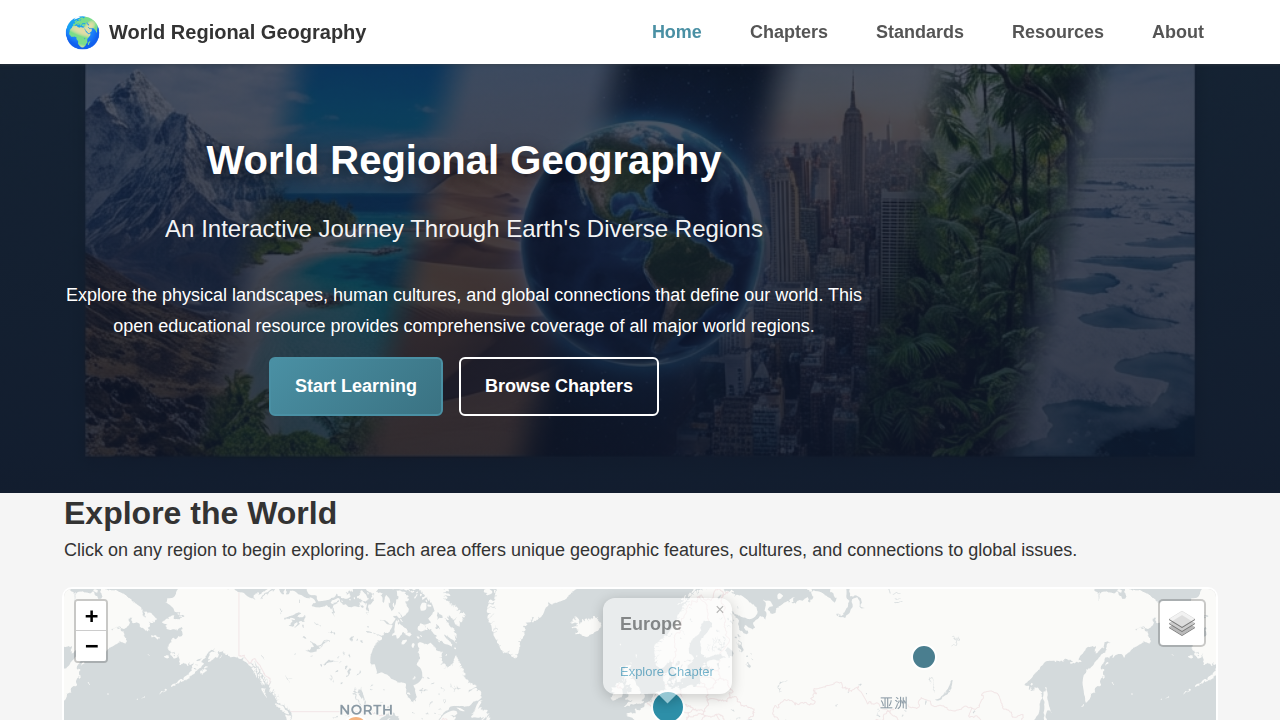
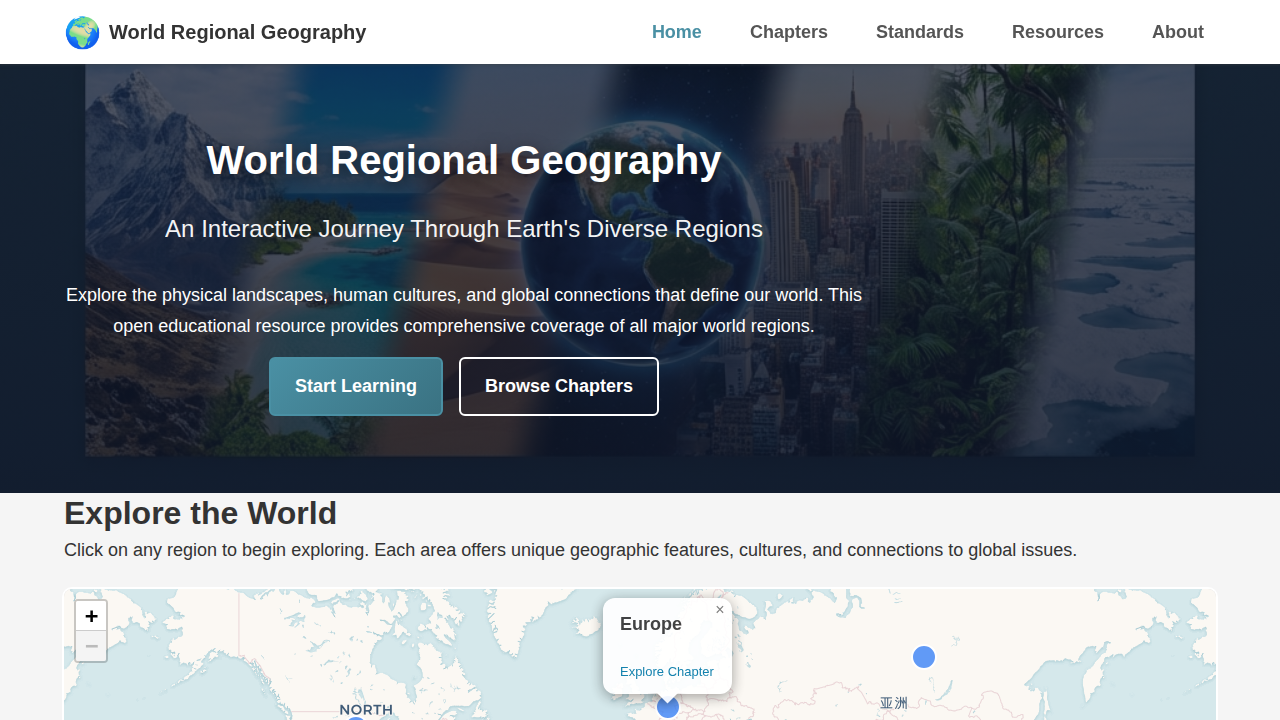
Refactor map regions into a shared constant
Extract duplicated region arrays in `initGlobalMap` and `initPreviewMap`
into a single `MAP_REGIONS` constant in `js/main.js`. Update both
functions and `js/modules/mapManager.js` to reference the unified
configuration, improving maintainability. Also fixes a missing mock
in `test-map-manager.mjs`.

diff --git a/js/main.js b/js/main.js
@@ -212,6 +212,20 @@ function initNavigation() {
 // Preview Map (Home Page)
 // =====================================================
 
+// Shared world regions configuration for map initializations
+const MAP_REGIONS = [
+    { name: 'Europe', center: [50, 10], url: 'chapters/02-europe/index.html', color: '#2d8fa8' },
+    { name: 'Russia and Central Asia', center: [60, 100], url: 'chapters/03-russia/index.html', color: '#1e5f74' },
+    { name: 'North America', center: [45, -100], url: 'chapters/04-north-america/index.html', color: '#f4a261' },
+    { name: 'Latin America', center: [-15, -60], url: 'chapters/05-latin-america/index.html', color: '#e07b3c' },
+    { name: 'Sub-Saharan Africa', center: [0, 20], url: 'chapters/06-sub-saharan-africa/index.html', color: '#2a9d8f' },
+    { name: 'North Africa & SW Asia', center: [28, 30], url: 'chapters/07-north-africa-sw-asia/index.html', color: '#40c9b8' },
+    { name: 'South Asia', center: [22, 78], url: 'chapters/08-south-asia/index.html', color: '#e76f51' },
+    { name: 'East Asia', center: [35, 115], url: 'chapters/09-east-asia/index.html', color: '#264653' },
+    { name: 'Southeast Asia', center: [5, 115], url: 'chapters/10-southeast-asia/index.html', color: '#287271' },
+    { name: 'Australia & Oceania', center: [-25, 140], url: 'chapters/11-australia-oceania/index.html', color: '#8ab17d' }
+];
+
 /**
  * Initialize the global map on the main home page
  */
@@ -228,22 +242,9 @@ function initGlobalMap() {
             attribution: '© OpenStreetMap © CARTO'
         }).addTo(map);
 
-        // Add region markers
-        const regions = [
-            { name: 'Europe', coords: [50, 10], url: 'chapters/02-europe/index.html' },
-            { name: 'Russia and Central Asia', coords: [60, 100], url: 'chapters/03-russia/index.html' },
-            { name: 'North America', coords: [40, -100], url: 'chapters/04-north-america/index.html' },
-            { name: 'Latin America', coords: [-10, -60], url: 'chapters/05-latin-america/index.html' },
-            { name: 'Sub-Saharan Africa', coords: [0, 20], url: 'chapters/06-sub-saharan-africa/index.html' },
-            { name: 'Middle East', coords: [25, 45], url: 'chapters/07-north-africa-sw-asia/index.html' },
-            { name: 'South Asia', coords: [20, 78], url: 'chapters/08-south-asia/index.html' },
-            { name: 'East Asia', coords: [35, 105], url: 'chapters/09-east-asia/index.html' },
-            { name: 'Southeast Asia', coords: [5, 115], url: 'chapters/10-southeast-asia/index.html' },
-            { name: 'Oceania', coords: [-25, 135], url: 'chapters/11-australia-oceania/index.html' }
-        ];
-
-        regions.forEach(region => {
-            L.circleMarker(region.coords, {
+        // Add region markers using shared configuration
+        MAP_REGIONS.forEach(region => {
+            L.circleMarker(region.center, {
                 radius: 12,
                 fillColor: '#3b82f6',
                 color: '#fff',
@@ -277,22 +278,8 @@ function initPreviewMap() {
         maxZoom: 19
     }).addTo(map);
 
-    // Define world regions with approximate bounds
-    const regions = [
-        { name: 'Europe', center: [50, 10], color: '#2d8fa8' },
-        { name: 'Russia and Central Asia', center: [60, 100], color: '#1e5f74' },
-        { name: 'North America', center: [45, -100], color: '#f4a261' },
-        { name: 'Latin America', center: [-15, -60], color: '#e07b3c' },
-        { name: 'Sub-Saharan Africa', center: [0, 20], color: '#2a9d8f' },
-        { name: 'North Africa & SW Asia', center: [28, 30], color: '#40c9b8' },
-        { name: 'South Asia', center: [22, 78], color: '#e76f51' },
-        { name: 'East Asia', center: [35, 115], color: '#264653' },
-        { name: 'Southeast Asia', center: [5, 115], color: '#287271' },
-        { name: 'Australia & Oceania', center: [-25, 140], color: '#8ab17d' }
-    ];
-
-    // Add markers for each region
-    regions.forEach(region => {
+    // Add markers for each region using shared configuration
+    MAP_REGIONS.forEach(region => {
         const marker = L.circleMarker(region.center, {
             radius: 12,
             fillColor: region.color,

diff --git a/js/modules/mapManager.js b/js/modules/mapManager.js
@@ -23,10 +23,10 @@ const MapManager = {
             maxZoom: 19
         }).addTo(map);
 
-        // Define world regions with approximate bounds
+        // Shared configuration for world regions (mirrors MAP_REGIONS in js/main.js)
         const regions = [
             { name: 'Europe', center: [50, 10], color: '#2d8fa8' },
-            { name: 'Russia', center: [60, 100], color: '#1e5f74' },
+            { name: 'Russia and Central Asia', center: [60, 100], color: '#1e5f74' },
             { name: 'North America', center: [45, -100], color: '#f4a261' },
             { name: 'Latin America', center: [-15, -60], color: '#e07b3c' },
             { name: 'Sub-Saharan Africa', center: [0, 20], color: '#2a9d8f' },